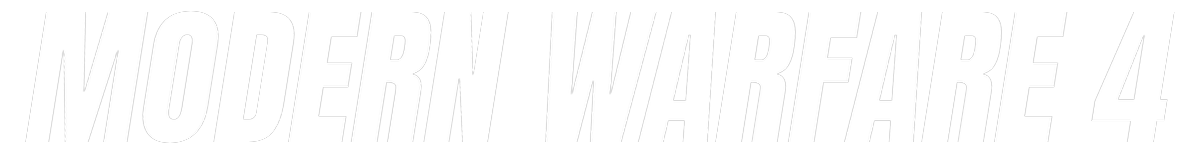
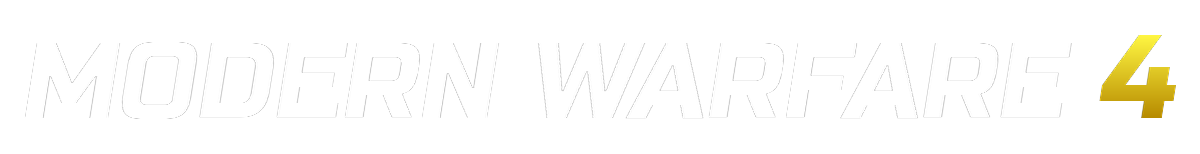
v50 : bande Modern Warfare 4 en police Call of Duty + 4 jaune doré
- Police Russo One (carrée, esprit militaire/Call of Duty) pour « MODERN
  WARFARE », toujours blanc, inclinaison 9° comme les autres bandes.
- Le « 4 » est en jaune Monster (#FFD400) avec un léger dégradé doré, repris
  du visuel officiel de la canette.
- faire_bande_edition.py : nouvelle option --degrade (dégradé doré) + police
  paramétrable ; polices téléchargées dans /home/user/polices (Black Ops One,
  Oswald, Big Shoulders, Archivo, Russo One, Staatliches).
- ?v=50 sur l'image de bande pour forcer le rafraîchissement du cache.

Service worker : cache mt-v50

diff --git a/docs/js/app.js b/docs/js/app.js
@@ -331,7 +331,7 @@ function drawPieChart(data, cid) {
 }
 
 // ── Carte canette ──
-const MT_EDIMG = { modernwarfare4: 'img/bandes/modernwarfare4.png', blackops7: 'img/bandes/blackops7.png', blackops6: 'img/bandes/blackops6.png', apex: 'img/bandes/apex.png' };
+const MT_EDIMG = { modernwarfare4: 'img/bandes/modernwarfare4.png?v=50', blackops7: 'img/bandes/blackops7.png', blackops6: 'img/bandes/blackops6.png', apex: 'img/bandes/apex.png' };
 const MT_SERLOGO = { ultra: 'img/series/ultra.png', juice: 'img/series/juice.png', punch: 'img/series/punch.png', rehab: 'img/series/rehab.png', recover: 'img/series/recover.png', classic: 'img/series/classic.png', java: 'img/series/java.png', reserve: 'img/series/reserve.png', maxx: 'img/series/maxx.png', espresso: 'img/series/espresso.png', hydrosport: 'img/series/hydrosport.png', 'dragon tea': 'img/series/dragontea.png', 'extra strenght': 'img/series/extrastrenght.png' };
 
 let MT_SIM = sessionStorage.getItem('mt_sim') === '1';
@@ -1288,7 +1288,7 @@ function mtFamThumb(c, w) {
 }
 const MT_EDLBL = { modernwarfare4: 'Modern Warfare 4', blackops7: 'Black Ops 7', blackops6: 'Black Ops 6', apex: 'Apex' };
 const MT_APPVER = '3.0';
-const MT_BUILD = 'mt-v49';
+const MT_BUILD = 'mt-v50';
 const MT_BUILD_DATE = '17/09/2026';
 window.MT_BUILD = MT_BUILD;
 window.MT_APPVER = MT_APPVER;
@@ -1892,7 +1892,7 @@ function loadMaintStatus() {
 
 // ── PWA ──
 if ('serviceWorker' in navigator) {
-  window.addEventListener('load', () => navigator.serviceWorker.register('sw.js?v=49', { updateViaCache: 'none' })
+  window.addEventListener('load', () => navigator.serviceWorker.register('sw.js?v=50', { updateViaCache: 'none' })
     .then((r) => { if (r && r.update) r.update(); }).catch(() => {}));
 }
 window.addEventListener('beforeinstallprompt', (e) => { e.preventDefault(); _installPrompt = e; const btn = document.getElementById('pwa-install-btn'); if (btn && user) btn.style.display = 'block'; });

diff --git a/docs/sw.js b/docs/sw.js
@@ -1,7 +1,7 @@
 // MonsterTracker statique — Service Worker
 // Cache d'abord (network-first en ligne, cache en secours) → fonctionne hors-ligne une fois visité.
-const CACHE = 'mt-v49';
-const SHELL = ['./', './index.html', './support.html', './css/style.css?v=49', './js/app.js?v=49', './js/support.js', './js/qrcode.min.js', './icon.png', './img/logo-wordmark.png', './manifest.json'];
+const CACHE = 'mt-v50';
+const SHELL = ['./', './index.html', './support.html', './css/style.css?v=50', './js/app.js?v=50', './js/support.js', './js/qrcode.min.js', './icon.png', './img/logo-wordmark.png', './manifest.json'];
 
 self.addEventListener('install', (e) => {
   e.waitUntil(caches.open(CACHE).then((c) => c.addAll(SHELL)).then(() => self.skipWaiting()));

diff --git a/docs/index.html b/docs/index.html
@@ -14,7 +14,7 @@
 <link rel="apple-touch-icon" href="icon.png"/>
 <link rel="manifest" href="manifest.json"/>
 <link href="https://fonts.googleapis.com/css2?family=Bebas+Neue&family=Barlow+Condensed:wght@400;600;700;800;900&family=Barlow:wght@400;500;600&display=swap" rel="stylesheet">
-<link rel="stylesheet" href="css/style.css?v=49">
+<link rel="stylesheet" href="css/style.css?v=50">
 </head>
 <body>
 <div id="sim-banner"><span>&#128065; SIMULATION VUE USER</span><button onclick="toggleSimUser()">RETOUR ADMIN</button></div>
@@ -688,6 +688,6 @@
 </div>
 
 <script src="js/qrcode.min.js"></script>
-<script type="module" src="js/app.js?v=49"></script>
+<script type="module" src="js/app.js?v=50"></script>
 </body>
 </html>
